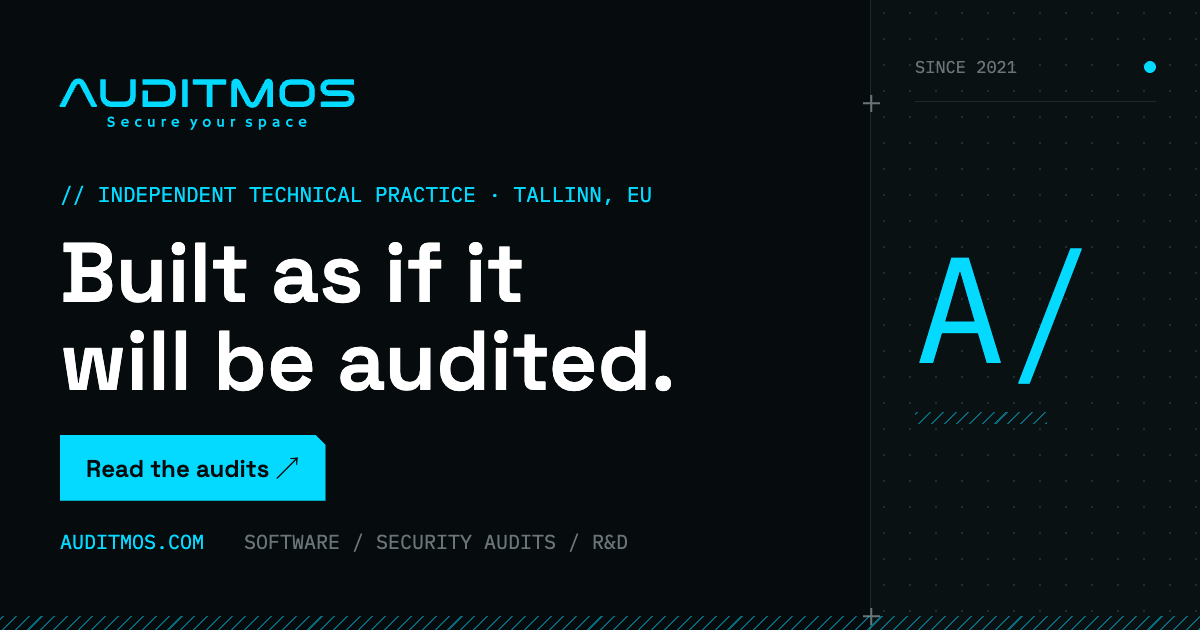
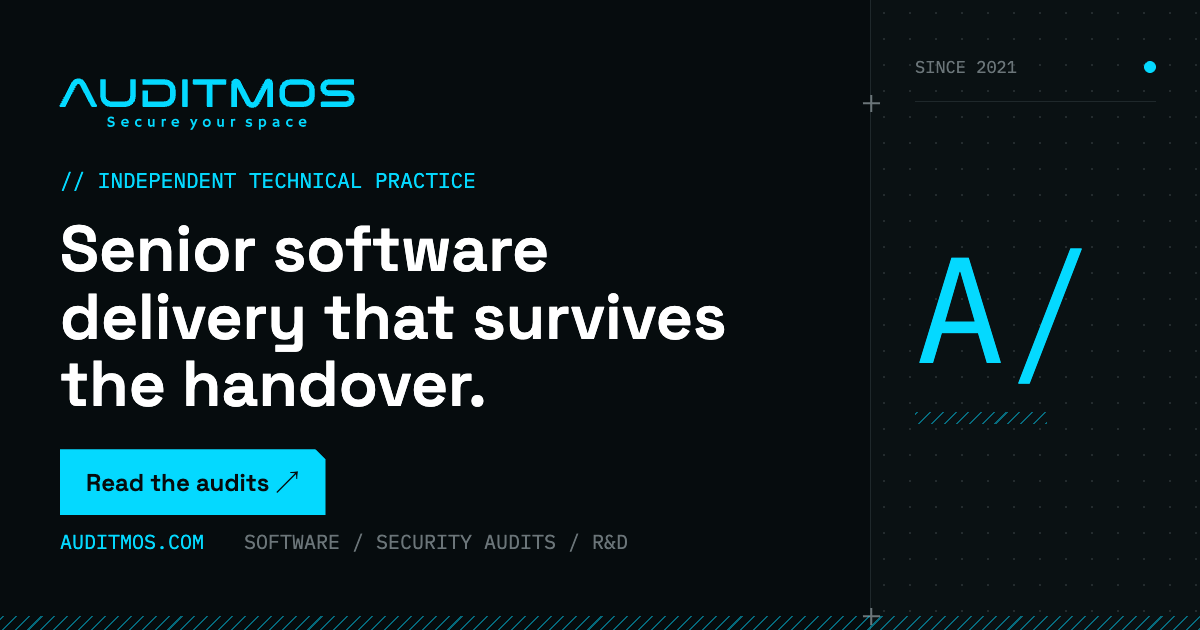
feat(brand): retire the competing recognition phrase
"Built as if it will be audited" had been running in parallel with the
locked asset from brand-strategy.md §4, "Don't take our word for it.
Read the audits." Two candidate phrases halve each other, and §4 is
explicit that consistency is what builds recognition.

The homepage aside carrying it went with the previous commit; this
removes the last three:

- rewrite the software-development service promise around what the
  client actually receives — documentation and tests — rather than
  restating the standard, which service 02 already covers
- mirror that line in the /about markdown twin
- rebuild public/og.png: the phrase was the card's headline, so the
  alt text could not change without regenerating the image. The card
  now mirrors the current hero, and its eyebrow drops the location
  along with the site's

The headline needed 64px to fit three lines without colliding with
the A/ panel. Also corrects the regeneration steps: `set viewport`
has to follow `open`, otherwise the capture is 1280x577 and silently
contradicts the og:image:width/height meta.

Claude-Session: https://claude.ai/code/session_01H11cJsoUXMamCPoGd6XNFu

Changed region(s): [[0.0308, 0.3619, 0.6167, 0.8444], [0.0617, 0.2714, 0.4008, 0.3317], [0.4317, 0.3016, 0.555, 0.3317]]

diff --git a/scripts/og-image.html b/scripts/og-image.html
@@ -3,10 +3,14 @@
 	Source template for public/og.png (the site-wide Open Graph image).
 
 	Regenerate after changing the brand look (flags spelled with [dashes]
-	because HTML comments cannot contain double hyphens):
-		agent-browser set viewport 1200 630 1
+	because HTML comments cannot contain double hyphens). Set the viewport
+	AFTER open — opening resets it, and viewport-first silently yields a
+	1280x577 capture that contradicts the og:image:width/height meta:
 		agent-browser [dash dash]allow-file-access open file://$PWD/scripts/og-image.html
+		agent-browser set viewport 1200 630 1
 		agent-browser screenshot $PWD/public/og.png
+
+	Verify the result is 1200x630 before committing: file public/og.png
 
 	The design mirrors the homepage hero: Space Grotesk headline, IBM Plex
 	Mono labels, blueprint dots, crosshair marks, and the hatch tape — all
@@ -88,9 +92,12 @@
 
 			h1 {
 				margin-top: 22px;
-				font-size: 84px;
+				/* Three lines at 84px would overrun the left column and collide
+				   with the A/ panel — the headline gained a line when it moved
+				   from the standard claim to the offer. */
+				font-size: 64px;
 				font-weight: 600;
-				line-height: 1.04;
+				line-height: 1.06;
 				color: #fff;
 			}
 
@@ -222,8 +229,8 @@
 				<img src="../src/assets/logos/auditmos-full-logo-transparent.svg" alt="" />
 			</div>
 			<div>
-				<p class="eyebrow">// Independent technical practice · Tallinn, EU</p>
-				<h1>Built as if it<br />will be audited.</h1>
+				<p class="eyebrow">// Independent technical practice</p>
+				<h1>Senior software<br />delivery that survives<br />the handover.</h1>
 				<span class="cta">Read the audits ↗</span>
 			</div>
 			<div class="meta">

diff --git a/src/site/md-mirror.ts b/src/site/md-mirror.ts
@@ -38,7 +38,7 @@ Software development, security audits, and applied R&D for teams that can't affo
 
 ## Services
 
-- Software development — senior delivery built as if it will be audited, because the author knows exactly what an auditor finds.
+- Software development — senior delivery, documented and tested for whoever opens the repo next, including an auditor.
 - Security audits — findings with impact, reproduction, and remediation, written to the same standard as the public reports.
 - R&D services — technical validation, prototypes, feasibility studies, and grant work that turn uncertain bets into evidence.
 
